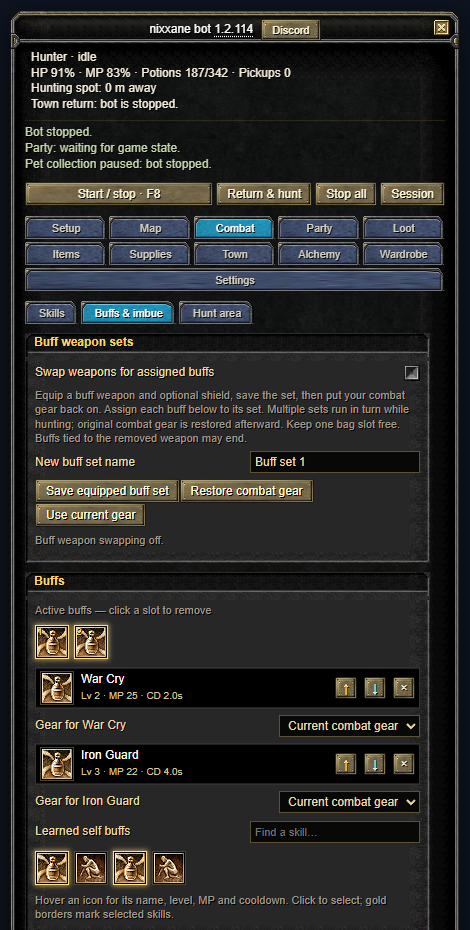
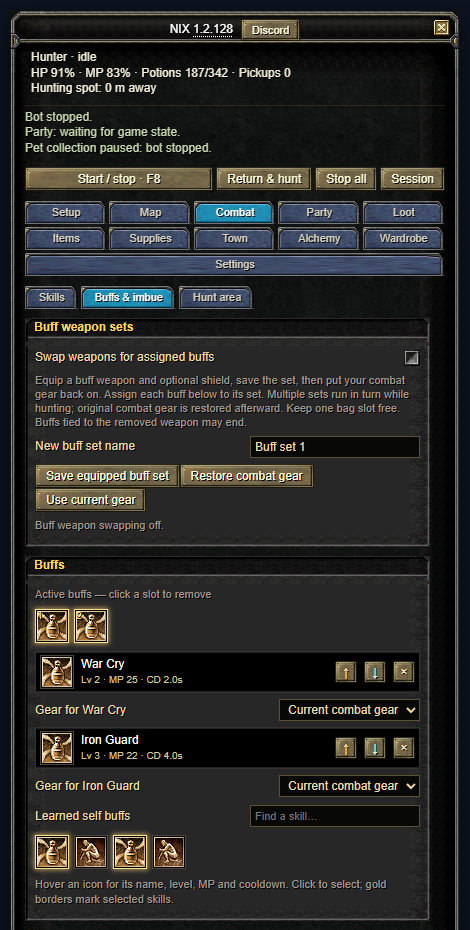
Add a picture-first easy guide; refresh guide pictures with NIX

diff --git a/easy.html b/easy.html
@@ -1,0 +1,69 @@
+<!doctype html>
+<html lang="en">
+<head>
+  <meta charset="utf-8">
+  <meta name="viewport" content="width=device-width, initial-scale=1">
+  <meta name="description" content="Set up NIX in a few pictures: install, pick a spot, pick skills, press F8.">
+  <title>Easy guide · NIX</title>
+  <link rel="icon" href="./favicon.svg?v=1.2.40" type="image/svg+xml">
+  <script src="./site.js"></script>
+  <link rel="stylesheet" href="./style.css">
+</head>
+<body class="easy">
+  <main>
+    <p class="back"><a href="./">← NIX</a></p>
+    <h1>Easy guide</h1>
+    <p class="easy-lead">Follow the pictures. Press what has a <span class="ring-key">red ring</span>.</p>
+
+    <ol class="easy-steps">
+      <li id="step-1">
+        <div class="easy-head"><span class="easy-icon" aria-hidden="true">🧩</span><h2>Get Tampermonkey</h2></div>
+        <p><a class="big-button" href="https://www.tampermonkey.net/">Get Tampermonkey</a></p>
+        <p>Add it to your browser.</p>
+      </li>
+      <li id="step-2">
+        <div class="easy-head"><span class="easy-icon" aria-hidden="true">⬇</span><h2>Get NIX</h2></div>
+        <p><a class="big-button gold" href="https://raw.githubusercontent.com/nixxane/opensro-bot-lean/main/bot.lean.user.js">Install NIX</a></p>
+        <p>Press <b>Install</b>.</p>
+      </li>
+      <li id="step-3">
+        <div class="easy-head"><span class="easy-icon" aria-hidden="true">🔄</span><h2>Open the game</h2></div>
+        <p>Press <kbd class="big-key">F5</kbd></p>
+      </li>
+      <li id="step-4">
+        <div class="easy-head"><span class="easy-icon" aria-hidden="true">👀</span><h2>NIX is here</h2></div>
+        <img class="easy-shot" src="guide/easy-1-panel.png" width="470" height="930" alt="The NIX window, with a red ring around all of it. It is at the top right of the game.">
+        <p>Top right of the game.</p>
+      </li>
+      <li id="step-5">
+        <div class="easy-head"><span class="easy-icon" aria-hidden="true">📍</span><h2>Pick your spot</h2></div>
+        <p>Walk to the monsters. Then press <span class="dot-num">1</span> <span class="dot-num">2</span> <span class="dot-num">3</span></p>
+        <img class="easy-shot" src="guide/easy-2-spot.png" width="470" height="860" alt="Red ring 1 on Combat, 2 on Hunt area, 3 on Set hunting spot here.">
+      </li>
+      <li id="step-6">
+        <div class="easy-head"><span class="easy-icon" aria-hidden="true">⚔</span><h2>Pick your skills</h2></div>
+        <p>Press <span class="dot-num">1</span> Then click skills at <span class="dot-num">2</span></p>
+        <img class="easy-shot" src="guide/easy-3-skills.png" width="470" height="930" alt="Red ring 1 on Skills, 2 on the row of your skill icons. Click the ones to attack with.">
+      </li>
+      <li id="step-7">
+        <div class="easy-head"><span class="easy-icon" aria-hidden="true">✅</span><h2>Check</h2></div>
+        <p>Press <span class="dot-num">1</span> Look at the dots.</p>
+        <p class="dots"><span><i class="dot green"></i> good</span><span><i class="dot yellow"></i> okay</span><span><i class="dot red"></i> press <span class="dot-num">2</span></span></p>
+        <img class="easy-shot" src="guide/easy-4-check.png" width="470" height="930" alt="Red ring 1 on Setup, 2 on Fix the next thing. Below, a list with a coloured dot on each line.">
+      </li>
+      <li id="step-8">
+        <div class="easy-head"><span class="easy-icon" aria-hidden="true">▶</span><h2>Go!</h2></div>
+        <p>Press <kbd class="big-key">F8</kbd> to start.<br>Press <kbd class="big-key">F8</kbd> again to stop.</p>
+        <img class="easy-shot" src="guide/easy-5-start.png" width="470" height="930" alt="Red ring on the Start / stop button. F8 does the same.">
+      </li>
+      <li id="step-9">
+        <div class="easy-head"><span class="easy-icon" aria-hidden="true">💬</span><h2>Need help?</h2></div>
+        <p><a class="big-button" href="https://discord.gg/Y5H5ZyfQ7u">Ask on Discord</a></p>
+      </li>
+    </ol>
+
+    <p class="more">Want more? <a href="./guide.html">Full setup guide</a></p>
+    <footer><a href="./">Home</a><a href="./guide.html">Setup guide</a><a href="https://discord.gg/Y5H5ZyfQ7u">Discord</a><button id="theme-toggle" type="button" hidden>Dark mode</button></footer>
+  </main>
+</body>
+</html>

diff --git a/style.css b/style.css
@@ -134,3 +134,32 @@ table.messages th { color: var(--muted); font-weight: 600; }
   table.messages th, table.messages td { padding: 6px 4px; }
 }
 @media (max-width: 420px) { .features { grid-template-columns: 1fr; } }
+
+/* Easy guide: pictures first, few words, big targets. */
+.easy main { max-width: 620px; }
+.easy h1 { font-size: 40px; }
+.easy-lead { font-size: 20px; }
+.ring-key { padding: 0 6px; border: 3px solid #ff3b30; border-radius: 8px; }
+.easy-steps { padding: 0; list-style: none; counter-reset: easy; }
+.easy-steps > li { position: relative; margin: 22px 0; padding: 22px 22px 24px; border: 1px solid var(--border); border-radius: 16px; background: var(--surface); counter-increment: easy; font-size: 20px; line-height: 1.5; }
+.easy-steps > li::before {
+  content: counter(easy); position: absolute; top: -14px; right: 18px; width: 40px; height: 40px; border-radius: 50%;
+  color: #1b2418; background: #dfc999; font-weight: 800; font-size: 20px; line-height: 40px; text-align: center; box-shadow: var(--shadow);
+}
+.easy-head { display: flex; align-items: center; gap: 14px; }
+.easy-icon { font-size: 40px; line-height: 1; }
+.easy-steps h2 { margin: 0; padding: 0; border: 0; font-size: 26px; }
+.easy-steps p { margin: 14px 0 0; }
+.big-button { display: inline-block; padding: 14px 26px; border-radius: 12px; color: #fff; background: var(--accent); font-weight: 700; font-size: 20px; text-decoration: none; }
+.big-button:hover { background: var(--accent-hover); }
+.big-button.gold { color: #1b2418; background: linear-gradient(#ecd9a8, #d4b678); }
+.big-button.gold:hover { background: linear-gradient(#f3e4bb, #dcc08a); }
+kbd.big-key { padding: 4px 14px; border-bottom-width: 4px; border-radius: 8px; font-size: 22px; }
+.dot-num { display: inline-block; width: 30px; height: 30px; border: 2px solid #fff; border-radius: 50%; color: #fff; background: #ff3b30; font-weight: 700; font-size: 17px; line-height: 26px; text-align: center; vertical-align: 2px; box-shadow: 0 0 0 1px #ff3b30; }
+.easy-shot { display: block; width: 100%; max-width: 470px; height: auto; margin: 18px auto 0; border-radius: 10px; box-shadow: var(--shadow); }
+.dots { display: flex; flex-wrap: wrap; gap: 8px 22px; }
+.dots span { display: inline-flex; align-items: center; gap: 8px; }
+.dot { display: inline-block; width: 20px; height: 20px; border-radius: 50%; }
+.dot.green { background: #4caf50; } .dot.yellow { background: #f0b429; } .dot.red { background: #e5484d; }
+.more { font-size: 18px; }
+@media (max-width: 640px) { .easy-steps > li { padding: 20px 16px 22px; font-size: 18px; } .easy h1 { font-size: 34px; } }

diff --git a/index.html b/index.html
@@ -14,7 +14,7 @@
     <div class="hero-inner">
       <h1><img class="logo" src="./favicon.svg?v=1.2.40" width="48" height="48" alt="">NIX</h1>
       <p class="lead">A compact OpenSRO bot for combat, potions, pet loot and town trips.</p>
-      <p class="download"><a class="install" href="https://raw.githubusercontent.com/nixxane/opensro-bot-lean/main/bot.lean.user.js">Install / update bot</a><a class="secondary" href="./guide.html">Setup guide</a></p>
+      <p class="download"><a class="install" href="https://raw.githubusercontent.com/nixxane/opensro-bot-lean/main/bot.lean.user.js">Install / update bot</a><a class="secondary" href="./easy.html">Easy guide</a><a class="secondary" href="./guide.html">Setup guide</a></p>
       <p class="version"><a id="release" href="https://github.com/nixxane/opensro-bot-lean/commits/main/">View latest version</a> · <a href="https://discord.gg/Y5H5ZyfQ7u">Discord</a> · <a href="#patch-notes">Patch notes</a></p>
     </div>
   </header>

diff --git a/guide.html b/guide.html
@@ -11,7 +11,7 @@
 </head>
 <body>
   <main>
-    <p class="back"><a href="./">← NIX</a></p>
+    <p class="back"><a href="./">← NIX</a> · Prefer pictures? <a href="./easy.html">Easy guide</a></p>
     <h1>Setup guide</h1>
     <p>From install to your first hunt takes about five minutes. Town trips need a few more steps, and everything else is optional. The screenshots come from a simulated game page, so your skills, icons and numbers will differ; the panel and its labels are the real ones.</p>
     <nav class="toc" aria-label="Guide sections">
